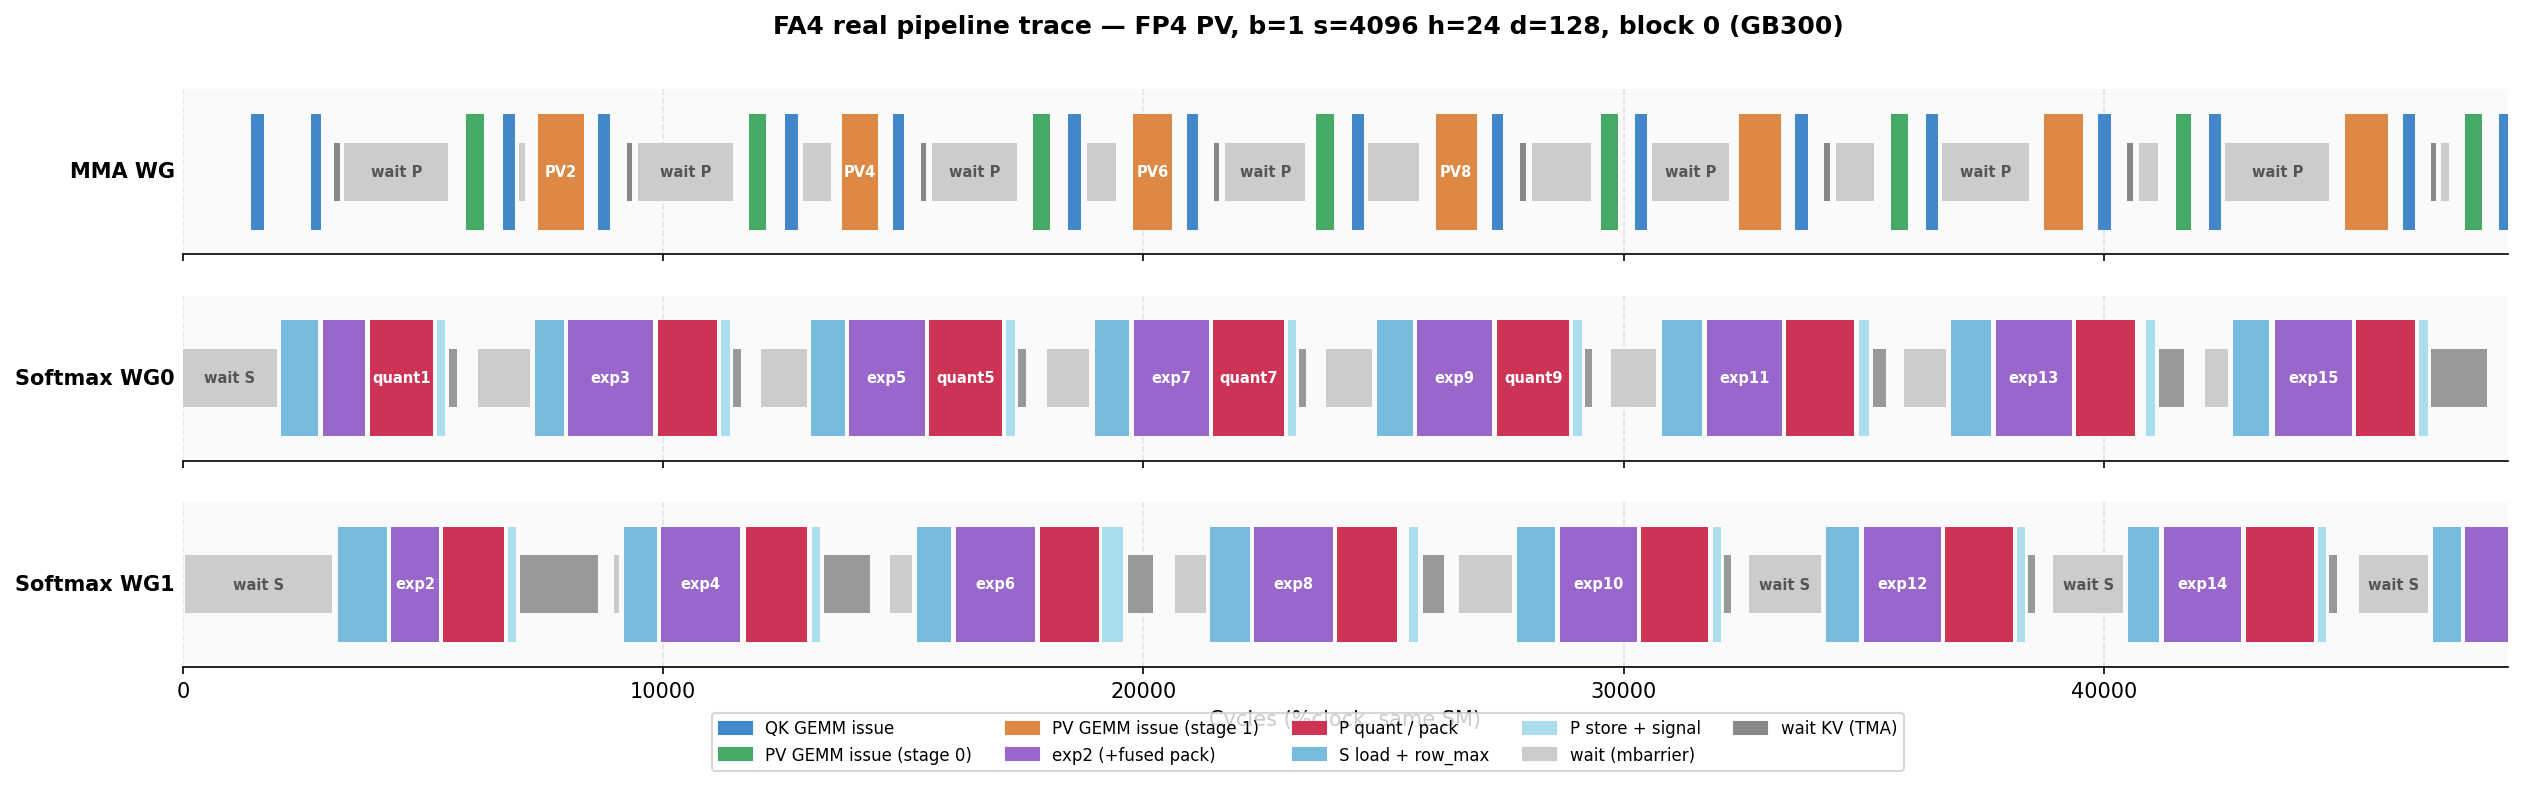
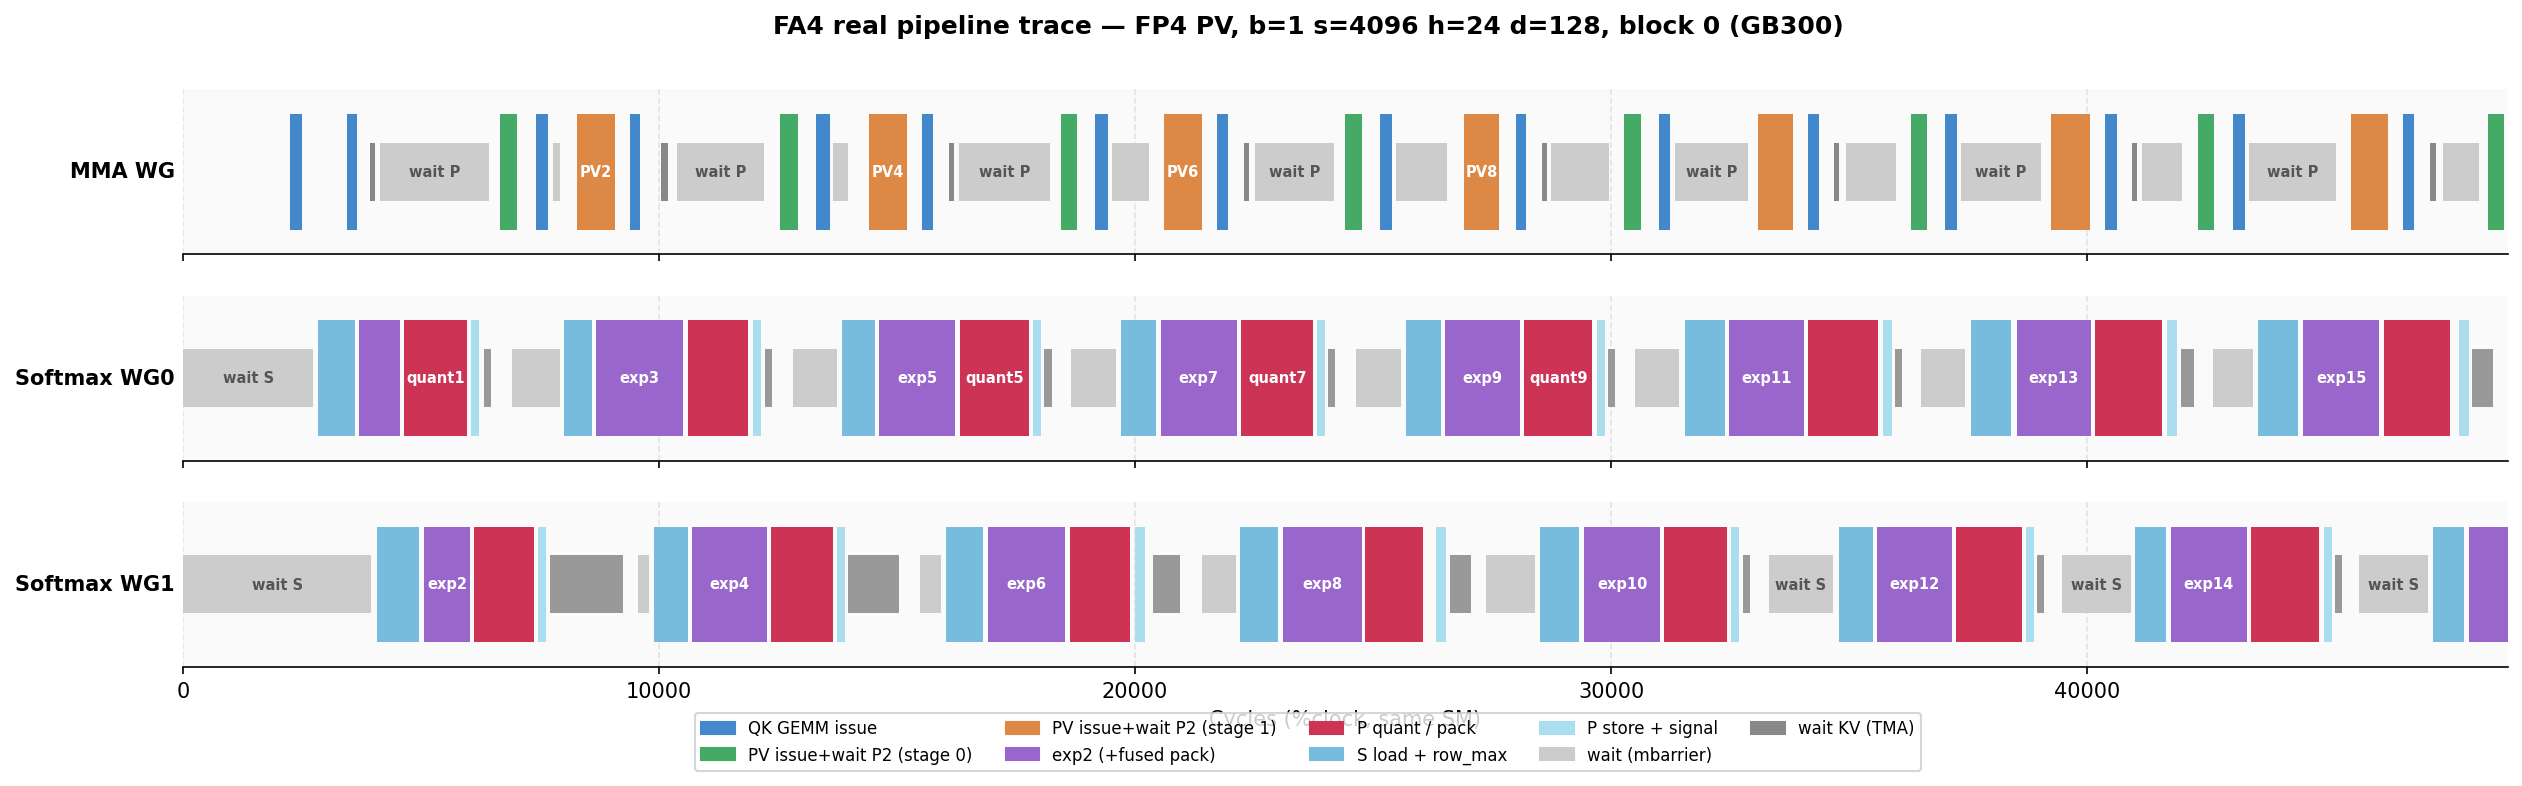
docs: explain bimodal PV span lengths in real trace
The PV issue sequence embeds a wait for the second half of P
(mbar_P_full_2 inside gemm_ptx_partial), so long PV bars mean the softmax
WG was late storing P's 2nd half — not a slower GEMM. Measured on BF16 PV:
stage-0 PVs mean 457 cy, stage-1 PVs mean 615 cy (tail to 1222 cy) because
the MMA warp runs both stages back-to-back and catches up with WG1's store.
Legend renamed to "PV issue+wait P2" accordingly.

diff --git a/flash_attn/cute/debug/trace_pipeline.py b/flash_attn/cute/debug/trace_pipeline.py
@@ -193,8 +193,11 @@ def render(spans_by_bg, block, output_path, title, start_iter, num_iters):
 
     legend = [
         mpatches.Patch(color="#4488CC", label="QK GEMM issue"),
-        mpatches.Patch(color="#44AA66", label="PV GEMM issue (stage 0)"),
-        mpatches.Patch(color="#DD8844", label="PV GEMM issue (stage 1)"),
+        # The PV issue sequence embeds a wait for the 2nd half of P
+        # (mbar_P_full_2 inside gemm_ptx_partial) — long PV bars mean the
+        # softmax WG was late storing P's second half, not a slower GEMM.
+        mpatches.Patch(color="#44AA66", label="PV issue+wait P2 (stage 0)"),
+        mpatches.Patch(color="#DD8844", label="PV issue+wait P2 (stage 1)"),
         mpatches.Patch(color="#9966CC", label="exp2 (+fused pack)"),
         mpatches.Patch(color="#CC3355", label="P quant / pack"),
         mpatches.Patch(color="#77BBDD", label="S load + row_max"),

diff --git a/flash_attn/cute/debug/b300_fp4_pv_analysis.md b/flash_attn/cute/debug/b300_fp4_pv_analysis.md
@@ -144,6 +144,13 @@ Real-trace findings:
 - GEMM *issue* spans are short (250-560 cycles) — tcgen05 MMAs execute
   asynchronously, so the MMA WG's real exposure is the waits, exactly what
   the trace shows.
+- PV span lengths are bimodal (BF16 PV: ~450 cy fast mode, tail to 1222 cy).
+  The PV issue sequence embeds a second wait: softmax stores P in two halves
+  (`mbar_P_full_O_rescaled`, then `mbar_P_full_2`), and `gemm_ptx_partial`
+  issues the first K-tiles, then `mbarrier.try_wait`s for the second half
+  before issuing the rest. Long PV bars = softmax late with P's 2nd half.
+  Stage-1 PVs stretch most (mean 615 vs 457 cy) because the MMA warp runs
+  the two stages back-to-back and catches up with softmax WG1's store.
 
 The MMA WG must complete the full PV+QK cycle before the softmax results
 from the same stage are needed again. With ping-pong, each softmax WG has
